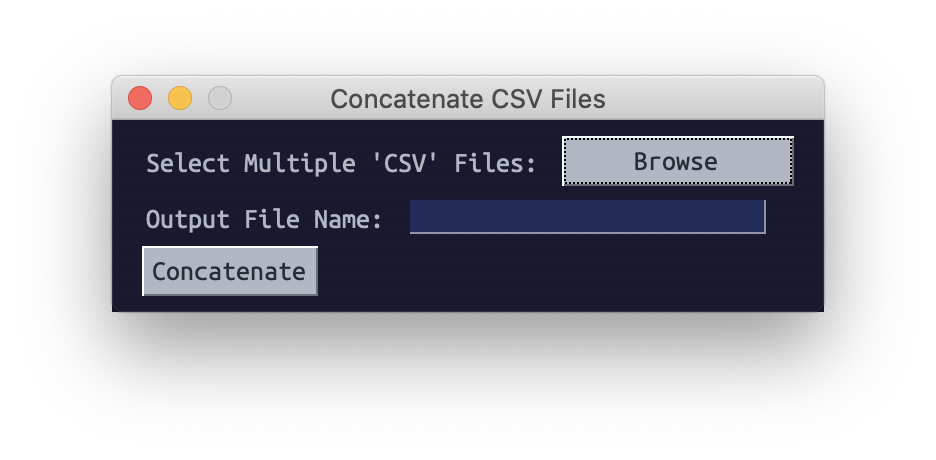
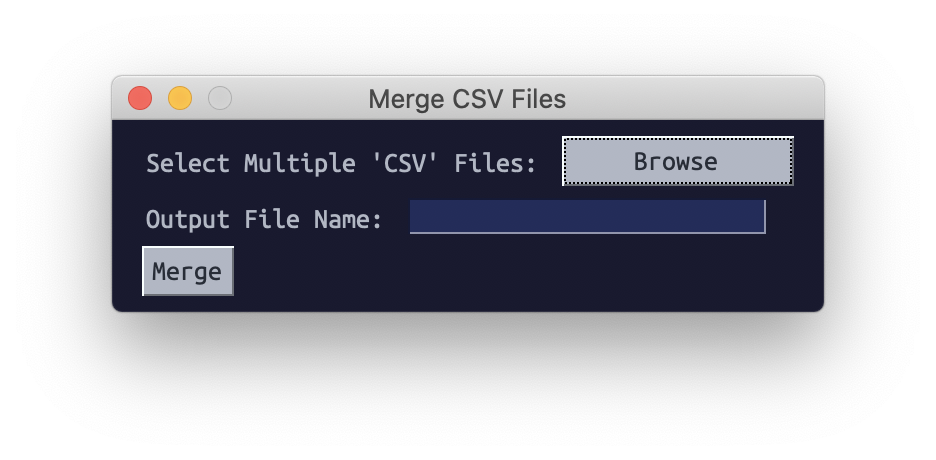
:package: Update tool name

Changed region(s): [[0.3408, 0.1826, 0.6506, 0.2435], [0.1549, 0.5174, 0.3408, 0.6696]]

diff --git a/merge_csv.py b/merge_csv.py
@@ -4,16 +4,16 @@ import pandas as pd
 from pathlib import Path
 
 
-def ccsv():
+def merge_csv():
 
     sg.theme('DarkPurple7')
 
-    window = sg.FlexForm('Concatenate CSV Files', auto_size_text=True, font=("Ubuntu Mono derivative Powerline", 14))
+    window = sg.FlexForm('Merge CSV Files', auto_size_text=True, font=("Ubuntu Mono derivative Powerline", 14))
 
     layout = [[sg.T("Select Multiple 'CSV' Files:"),
                sg.B("Browse", size=(15, 0))],
               [sg.T('Output File Name:'),
-               sg.I(size=(25, 0), key='input')], [sg.B("Concatenate")]]
+               sg.I(size=(25, 0), key='input')], [sg.B("Merge")]]
 
     window = window.Layout(layout)
 
@@ -25,11 +25,11 @@ def ccsv():
             if any(".csv" not in x for x in files):
                 sg.Popup('You can only select CSV files!')
 
-        elif event == "Concatenate":
+        elif event == "Merge":
             try:
                 files
             except NameError:
-                sg.Popup('You have not selected any file to concatenate!')
+                sg.Popup('You have not selected any file to Merge!')
             else:
                 combined_csv = pd.concat([pd.read_csv(f) for f in files])
                 combined_csv.to_csv(f'{Path(files[0]).parent}/{values["input"]}.csv',
@@ -42,6 +42,6 @@ def ccsv():
 
 
 if __name__ == "__main__":
-    ccsv()
+    merge_csv()
 else:
     window.close()
